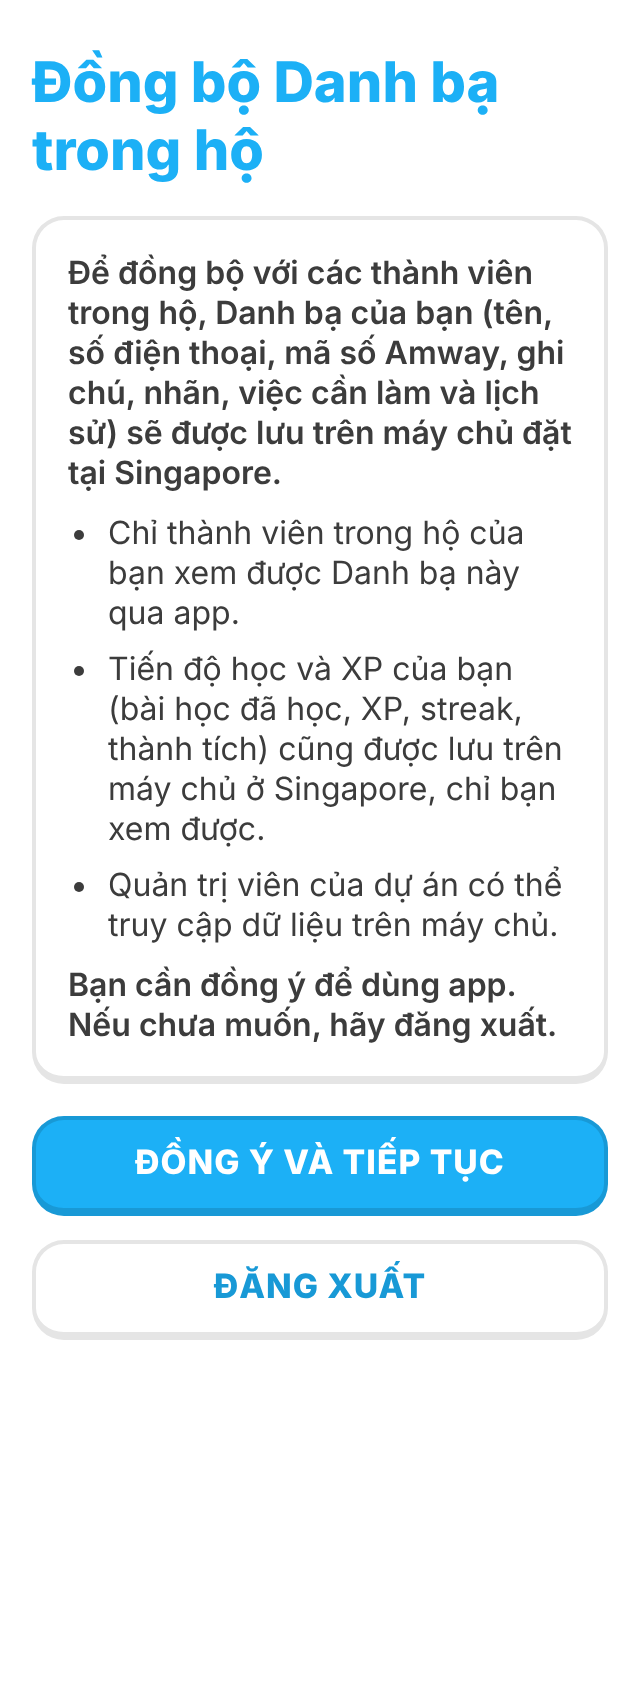
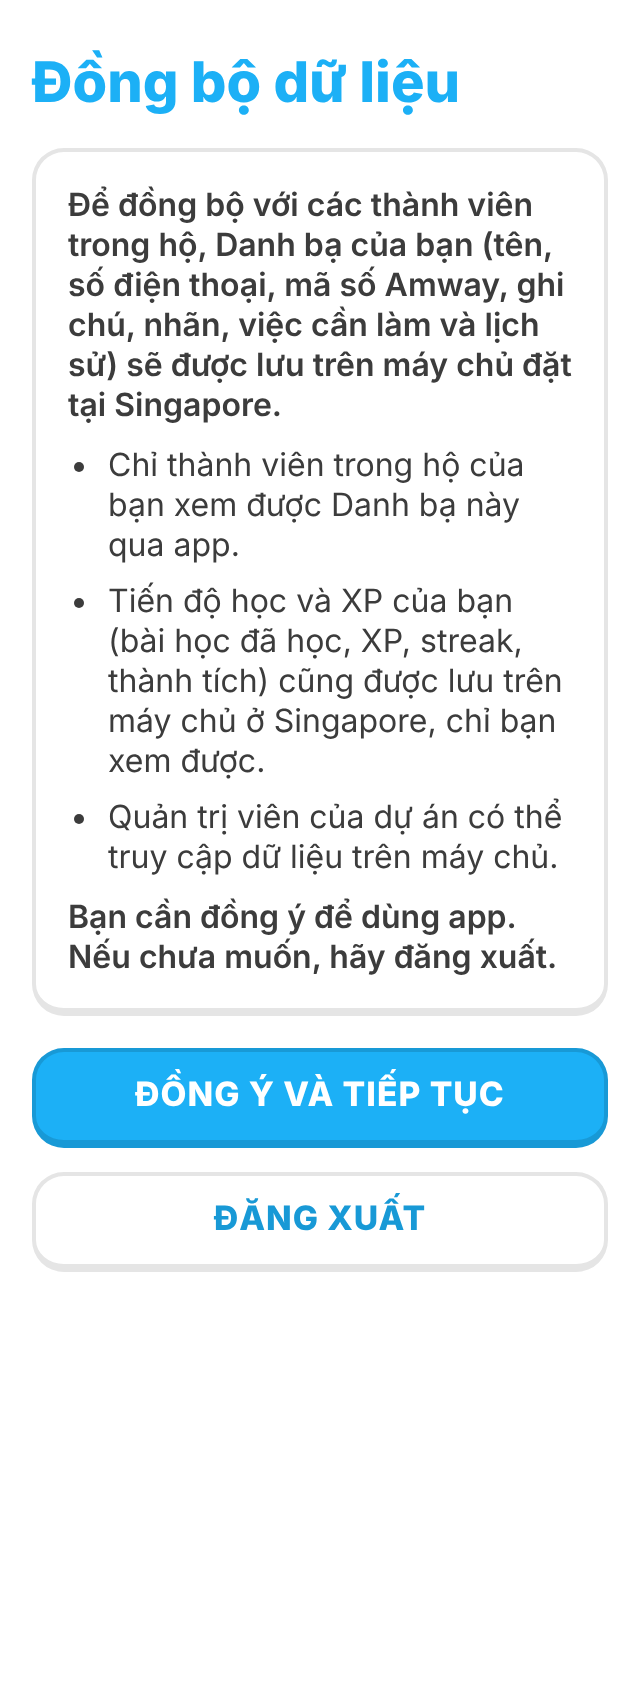
fix: consent screen title covers contacts and progress (story 033)
Rename "Đồng bộ Danh bạ trong hộ" to "Đồng bộ dữ liệu"; record that
stories 031-033 ship together in one PR.

Story: production/epics/diamond-challenge/story-033-progress-consent-and-erase.md

Claude-Session: https://claude.ai/code/session_01N8trRukAdUtow4mzvQDbn7

Changed region(s): [[0.0312, 0.0308, 0.9688, 0.8009], [0.9375, 0.0924, 0.9688, 0.154]]

diff --git a/src/ui/strings.ts b/src/ui/strings.ts
@@ -399,7 +399,7 @@ export const STRINGS = {
   },
 
   // Đồng bộ Danh bạ hộ (story 023)
-  consentTitle: 'Đồng bộ Danh bạ trong hộ',
+  consentTitle: 'Đồng bộ dữ liệu',
   consentIntro:
     'Để đồng bộ với các thành viên trong hộ, Danh bạ của bạn (tên, số điện thoại, mã số Amway, ghi chú, nhãn, việc cần làm và lịch sử) sẽ được lưu trên máy chủ đặt tại Singapore.',
   consentMembersOnly: 'Chỉ thành viên trong hộ của bạn xem được Danh bạ này qua app.',

diff --git a/production/epics/diamond-challenge/story-033-progress-consent-and-erase.md b/production/epics/diamond-challenge/story-033-progress-consent-and-erase.md
@@ -83,6 +83,6 @@
 ## Completion Notes
 **Completed**: 2026-11-18
 **Criteria**: 6/6 passing (none deferred)
-**Deviations**: Advisory, not logged as tech debt: (1) all checks ran against a fake Supabase and PGlite, not the live one; migrations 20261118000000 (story 031) and 20261118010000 (this story) are not on the live DB; (2) deploy order matters: merging the new migration raises `app_config.contact_consent_version` to 2 and every account that agreed at version 1 must agree again once, so deploy 031 and 032 first, prove them on the live Supabase, then 033, and ship `game-config.json` (2) and the migration in the same release; (3) the consent screen title is still "Đồng bộ Danh bạ trong hộ" although it now also covers personal progress; (4) `src/app.tsx` also changed so an unreadable consent version is never treated as the current one (listed in `## Files`)
+**Deviations**: Advisory, not logged as tech debt: (1) all checks ran against a fake Supabase and PGlite, not the live one; migrations 20261118000000 (story 031) and 20261118010000 (this story) are not on the live DB; (2) merging the new migration raises `app_config.contact_consent_version` to 2 and every account that agreed at version 1 must agree again once; per the user's decision (2026-11-18) stories 031-033 ship together in one PR, because the "no personal_events before agreeing to the new text" gate lives in this story and a separate 031/032 deploy would send progress under the old consent text; `game-config.json` (2) and the migration ship in the same release; (3) after closing, the consent screen title was changed from "Đồng bộ Danh bạ trong hộ" to "Đồng bộ dữ liệu" at the user's request (2026-11-18), evidence re-captured; (4) `src/app.tsx` also changed so an unreadable consent version is never treated as the current one (listed in `## Files`)
 **Test Evidence**: screenshots `production/qa/evidence/story-033-progress-consent-and-erase/01-04` (stamp unchanged); tests waived at qa.level minimal; full suite 535/535 and the migration applied twice on PGlite
 **Reviewed by**: self, no independent review
